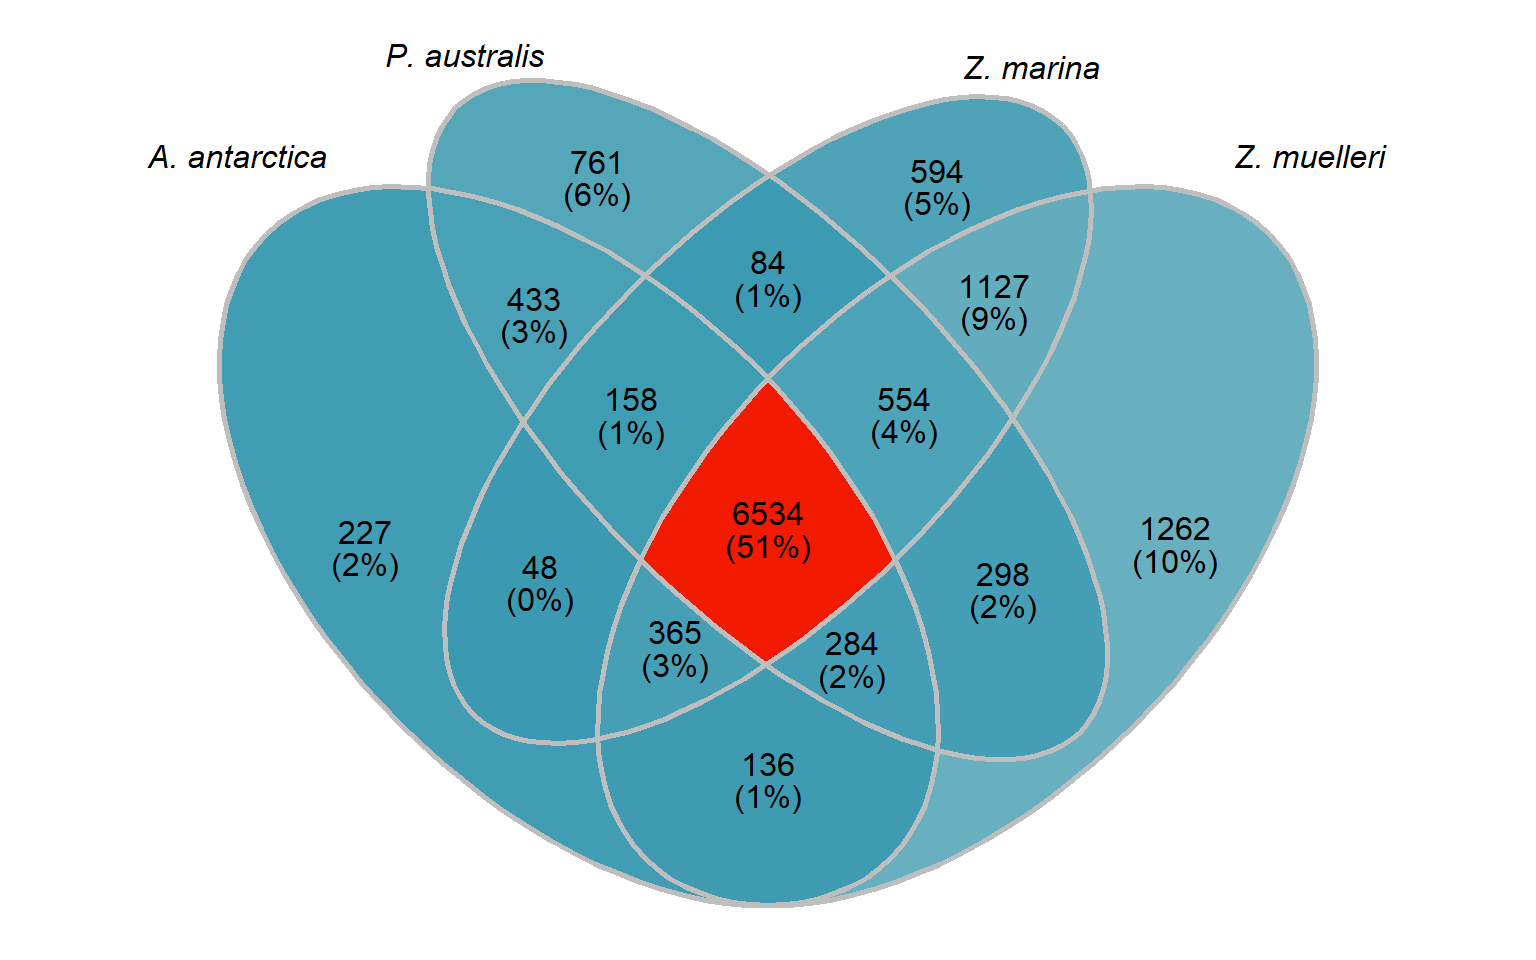
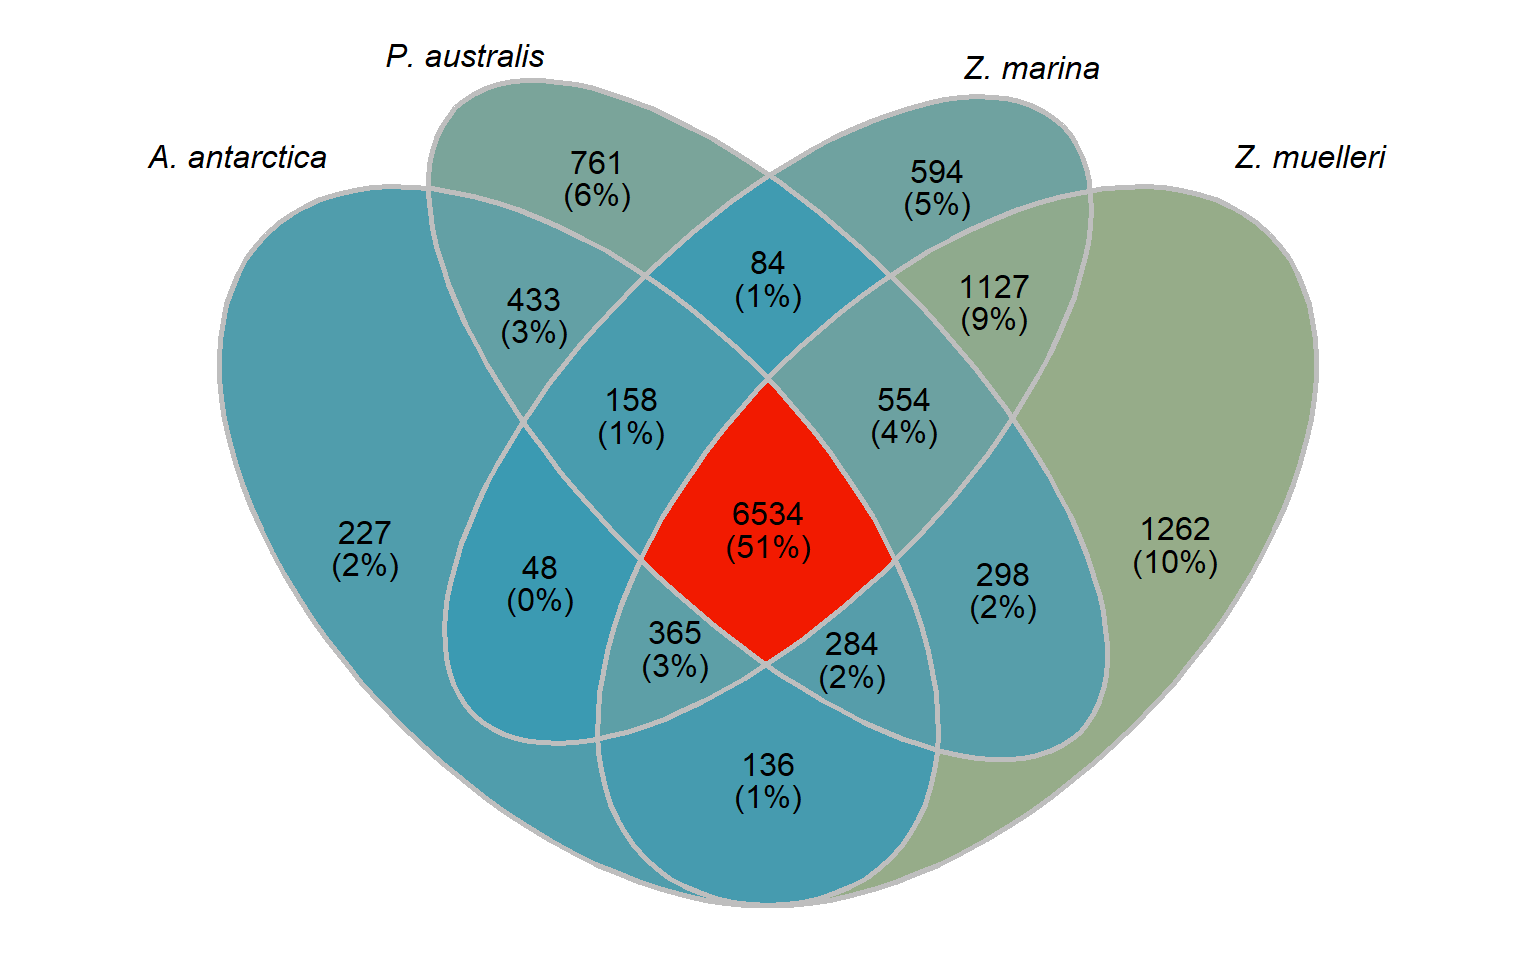
Build site.

Changed region(s): [[0.2812, 0.0625, 0.875, 0.9375]]

diff --git a/docs/Orthofinder.html b/docs/Orthofinder.html
@@ -387,7 +387,7 @@ div.tocify {
 <div class="tab-content">
 <div id="summary" class="tab-pane fade in active">
 <p>
-<strong>Last updated:</strong> 2022-03-08
+<strong>Last updated:</strong> 2022-03-09
 </p>
 <p>
 <strong>Checks:</strong> <span class="glyphicon glyphicon-ok text-success" aria-hidden="true"></span> 7 <span class="glyphicon glyphicon-exclamation-sign text-danger" aria-hidden="true"></span> 0
@@ -478,16 +478,16 @@ This reproducible <a href="http://rmarkdown.rstudio.com">R Markdown</a> analysis
 <div class="panel panel-default">
 <div class="panel-heading">
 <p class="panel-title">
-<a data-toggle="collapse" data-parent="#workflowr-checks" href="#strongRepositoryversionstrongahrefhttpsgithubcomphilippbayerAmphibolisPosidoniaComparisontreee4c19dac30055486109ba7f30fd00c221c85ea9etargetblanke4c19daa"> <span class="glyphicon glyphicon-ok text-success" aria-hidden="true"></span> <strong>Repository version:</strong> <a href="https://github.com/philippbayer/Amphibolis_Posidonia_Comparison/tree/e4c19dac30055486109ba7f30fd00c221c85ea9e" target="_blank">e4c19da</a> </a>
+<a data-toggle="collapse" data-parent="#workflowr-checks" href="#strongRepositoryversionstrongahrefhttpsgithubcomphilippbayerAmphibolisPosidoniaComparisontree45b4b4271cc9a151ac6dd677fb28e4f53ea01170targetblank45b4b42a"> <span class="glyphicon glyphicon-ok text-success" aria-hidden="true"></span> <strong>Repository version:</strong> <a href="https://github.com/philippbayer/Amphibolis_Posidonia_Comparison/tree/45b4b4271cc9a151ac6dd677fb28e4f53ea01170" target="_blank">45b4b42</a> </a>
 </p>
 </div>
[2 lines of base64/hex data omitted]
 <div class="panel-body">
 <p>
 Great! You are using Git for version control. Tracking code development and connecting the code version to the results is critical for reproducibility.
 </p>
 <p>
-The results in this page were generated with repository version <a href="https://github.com/philippbayer/Amphibolis_Posidonia_Comparison/tree/e4c19dac30055486109ba7f30fd00c221c85ea9e" target="_blank">e4c19da</a>. See the <em>Past versions</em> tab to see a history of the changes made to the R Markdown and HTML files.
+The results in this page were generated with repository version <a href="https://github.com/philippbayer/Amphibolis_Posidonia_Comparison/tree/45b4b4271cc9a151ac6dd677fb28e4f53ea01170" target="_blank">45b4b42</a>. See the <em>Past versions</em> tab to see a history of the changes made to the R Markdown and HTML files.
 </p>
 <p>
 Note that you need to be careful to ensure that all relevant files for the analysis have been committed to Git prior to generating the results (you can use <code>wflow_publish</code> or <code>wflow_git_commit</code>). workflowr only checks the R Markdown file, but you know if there are other scripts or data files that it depends on. Below is the status of the Git repository when the results were generated:
@@ -497,10 +497,45 @@ Ignored files:
     Ignored:    .Rhistory
     Ignored:    .Rproj.user/
     Ignored:    analysis/OTT.nb.html
+    Ignored:    analysis/figure/
     Ignored:    analysis/plotRgenes.nb.html
 
+Untracked files:
+    Untracked:  analysis/GO_and_ortho.Rmd
+    Untracked:  output/GO_results_genes_in_Algae_NOT_Duckweeds_NOT_Seagrasses_NOT_Terrestrials.csv
+    Untracked:  output/GO_results_genes_in_Algae_NOT_Duckweeds_NOT_Seagrasses_NOT_Terrestrials.csv.png
+    Untracked:  output/GO_results_genes_in_Aquatics_NOT_Seagrasses_NOT_Terrestrials.csv
+    Untracked:  output/GO_results_genes_in_Aquatics_NOT_Seagrasses_NOT_Terrestrials.csv.png
+    Untracked:  output/GO_results_genes_in_Aquatics_and_Seagrasses_NOT_Terrestrials.csv
+    Untracked:  output/GO_results_genes_in_Aquatics_and_Seagrasses_NOT_Terrestrials.csv.png
+    Untracked:  output/GO_results_genes_in_Duckweeds_NOT_Algae_NOT_Seagrasses_NOT_Terrestrials.csv
+    Untracked:  output/GO_results_genes_in_Duckweeds_NOT_Algae_NOT_Seagrasses_NOT_Terrestrials.csv.png
+    Untracked:  output/GO_results_genes_in_Seagrasses_NOT_Algae_NOT_Duckweeds_NOT_Terrestrials.csv
+    Untracked:  output/GO_results_genes_in_Seagrasses_NOT_Algae_NOT_Duckweeds_NOT_Terrestrials.csv.png
+    Untracked:  output/GO_results_genes_in_Seagrasses_NOT_Aquatics_NOT_Terrestrials.csv
+    Untracked:  output/GO_results_genes_in_Seagrasses_NOT_Aquatics_NOT_Terrestrials.csv.png
+    Untracked:  output/GO_results_genes_in_Terrestrials_NOT_Aquatics_NOT_Seagrasses.csv
+    Untracked:  output/GO_results_genes_in_Terrestrials_NOT_Aquatics_NOT_Seagrasses.csv.png
+    Untracked:  output/GO_results_genes_union_Aquatics_and_Seagrasses_NOT_Terrestrials.csv
+    Untracked:  output/GO_results_genes_union_Aquatics_and_Seagrasses_NOT_Terrestrials.csv.png
+    Untracked:  output/all_GO_plots.Rdata
+    Untracked:  output/patchwork_seagrass_gene_loss.png
+    Untracked:  output/patchwork_terrestrials_gene_loss.png
+
 Unstaged changes:
-    Modified:   output/patched_gene_loss.png
+    Modified:   analysis/GOenrichment.Rmd
+    Modified:   data/arabidopsis_gene_level_comparison.xlsx
+    Modified:   data/arabidopsis_gene_level_comparison_only_losts.xlsx
+    Modified:   data/arabidopsis_gene_level_counts.xlsx
+    Modified:   output/GO_results_genes_lost_A_antarctica_not_other_seagrasses.csv.png
+    Modified:   output/GO_results_genes_lost_P_australis_not_other_seagrasses.csv.png
+    Modified:   output/GO_results_genes_lost_Z_marina_not_other_seagrasses.csv.png
+    Modified:   output/GO_results_genes_lost_Z_muelleri_not_other_seagrasses.csv.png
+    Modified:   output/GO_results_genes_only_P_australis_not_other_seagrasses.csv.png
+    Modified:   output/GO_results_genes_only_Z_marina_not_other_seagrasses.csv.png
+    Modified:   output/GO_results_genes_only_Z_muelleri_not_other_seagrasses.csv.png
+    Modified:   output/GO_results_terrestrials_vs_union_aquatics_seagrasses.png
+    Modified:   output/seagrass_venn_image.Rdata
 
 </code></pre>
 <p>
@@ -539,6 +574,40 @@ Message
 </tr>
 </thead>
 <tbody>
+<tr>
+<td>
+Rmd
+</td>
+<td>
+<a href="https://github.com/philippbayer/Amphibolis_Posidonia_Comparison/blob/45b4b4271cc9a151ac6dd677fb28e4f53ea01170/analysis/Orthofinder.Rmd" target="_blank">45b4b42</a>
+</td>
+<td>
+Philipp Bayer
+</td>
+<td>
+2022-03-09
+</td>
+<td>
+add better groups
+</td>
+</tr>
+<tr>
+<td>
+html
+</td>
+<td>
+<a href="https://rawcdn.githack.com/philippbayer/Amphibolis_Posidonia_Comparison/ce4bc8b19032db1c095861033e7b178bdcd69382/docs/Orthofinder.html" target="_blank">ce4bc8b</a>
+</td>
+<td>
+Philipp Bayer
+</td>
+<td>
+2022-03-08
+</td>
+<td>
+Build site.
+</td>
+</tr>
 <tr>
 <td>
 Rmd
@@ -1543,7 +1612,7 @@ seagrass_venn &lt;- ggplot() +
                              size = NA,
                              lineheight = 0.85,
                              label.size = NA) +
-  scale_fill_gradientn(colours=wes_palette(&quot;Zissou1&quot;, 100, type = &quot;continuous&quot;)) + 
+  scale_fill_gradientn(colours=wes_palette(&quot;Zissou1&quot;, 3, type = &quot;continuous&quot;)) + 
   theme(legend.position = &quot;none&quot;) + 
   scale_x_continuous(expand = expansion(mult = .2)) #trick from https://github.com/gaospecial/ggVennDiagram/blob/9435aa0ab4abb470c670ecb938c71576461ccedc/vignettes/using-ggVennDiagram.Rmd#L65
 seagrass_venn</code></pre>
@@ -1579,24 +1648,33 @@ genes_only_in_Z_muelleri &lt;- gene_per_spec %&gt;%
   filter(name == &#39;Z. muelleri&#39;, Orthogroup %in% groups_only_in_Z_muelleri) %&gt;% 
   separate_rows(value, sep=&#39;,&#39;) %&gt;% pull(value) %&gt;% str_trim()
 
-groups_in_all_seagrasses &lt;- union(union(union(big_list[[&#39;Z. muelleri&#39;]], big_list[[&#39;A. antarctica&#39;]]), big_list[[&#39;P. australis&#39;]]), big_list[[&#39;Z. marina&#39;]])
+groups_in_all_seagrasses_union &lt;- union(union(union(big_list[[&#39;Z. muelleri&#39;]], big_list[[&#39;A. antarctica&#39;]]), big_list[[&#39;P. australis&#39;]]), big_list[[&#39;Z. marina&#39;]])
+genes_in_all_seagrasses_union &lt;- gene_per_spec %&gt;% 
+  filter(name %in% c(&#39;A. antarctica&#39;, &#39;P. australis&#39;, &#39;Z. muelleri&#39;, &#39;Z. marina&#39;), Orthogroup %in% groups_in_all_seagrasses_union) %&gt;% 
+  separate_rows(value, sep=&#39;,&#39;) %&gt;% pull(value) %&gt;% str_trim()
 
-groups_lost_in_A_antarctica &lt;- setdiff(groups_in_all_seagrasses, big_list[[&#39;A. antarctica&#39;]])
+groups_in_all_seagrasses_intersect &lt;- intersect(intersect(intersect(big_list[[&#39;Z. muelleri&#39;]], big_list[[&#39;A. antarctica&#39;]]), big_list[[&#39;P. australis&#39;]]), big_list[[&#39;Z. marina&#39;]])
+genes_in_all_seagrasses_intersect &lt;- gene_per_spec %&gt;% 
+  filter(name %in% c(&#39;A. antarctica&#39;, &#39;P. australis&#39;, &#39;Z. muelleri&#39;, &#39;Z. marina&#39;), Orthogroup %in% groups_in_all_seagrasses_intersect) %&gt;% 
+  separate_rows(value, sep=&#39;,&#39;) %&gt;% pull(value) %&gt;% str_trim()
+
+
+groups_lost_in_A_antarctica &lt;- setdiff(groups_in_all_seagrasses_union, big_list[[&#39;A. antarctica&#39;]])
 genes_lost_in_A_antarctica &lt;- gene_per_spec %&gt;% 
   filter(name != &#39;A. antarctica&#39;, Orthogroup %in% groups_lost_in_A_antarctica) %&gt;% 
   separate_rows(value, sep=&#39;,&#39;) %&gt;% pull(value) %&gt;% str_trim()
 
-groups_lost_in_P_australis &lt;- setdiff(groups_in_all_seagrasses, big_list[[&#39;P. australis&#39;]])
+groups_lost_in_P_australis &lt;- setdiff(groups_in_all_seagrasses_union, big_list[[&#39;P. australis&#39;]])
 genes_lost_in_P_australis &lt;- gene_per_spec %&gt;% 
   filter(name != &#39;P. australis&#39;, Orthogroup %in% groups_lost_in_P_australis) %&gt;% 
   separate_rows(value, sep=&#39;,&#39;) %&gt;% pull(value) %&gt;% str_trim()
 
-groups_lost_in_Z_marina &lt;- setdiff(groups_in_all_seagrasses, big_list[[&#39;Z. marina&#39;]])
+groups_lost_in_Z_marina &lt;- setdiff(groups_in_all_seagrasses_union, big_list[[&#39;Z. marina&#39;]])
 genes_lost_in_Z_marina &lt;- gene_per_spec %&gt;% 
   filter(name != &#39;Z. marina&#39;, Orthogroup %in% groups_lost_in_Z_marina) %&gt;% 
   separate_rows(value, sep=&#39;,&#39;) %&gt;% pull(value) %&gt;% str_trim()
 
-groups_lost_in_Z_muelleri &lt;- setdiff(groups_in_all_seagrasses, big_list[[&#39;Z. muelleri&#39;]])
+groups_lost_in_Z_muelleri &lt;- setdiff(groups_in_all_seagrasses_union, big_list[[&#39;Z. muelleri&#39;]])
 genes_lost_in_Z_muelleri &lt;- gene_per_spec %&gt;% 
   filter(name != &#39;Z. muelleri&#39;, Orthogroup %in% groups_lost_in_Z_muelleri) %&gt;% 
   separate_rows(value, sep=&#39;,&#39;) %&gt;% pull(value) %&gt;% str_trim()</code></pre>
@@ -1607,6 +1685,14 @@ close(fileConn)
 
 fileConn&lt;-file(&#39;data/Lost_present_gene_lists/Genes_only_in_P_australis_not_other_seagrasses.txt&#39;)
 writeLines(genes_only_in_P_australis, fileConn)
+close(fileConn)
+
+fileConn &lt;- file(&#39;data/Lost_present_gene_lists/Genes_in_all_seagrasses_union.txt&#39;)
+writeLines(genes_in_all_seagrasses_union, fileConn)
+close(fileConn)
+
+fileConn &lt;- file(&#39;data/Lost_present_gene_lists/Genes_in_all_seagrasses_intersect.txt&#39;)
+writeLines(genes_in_all_seagrasses_intersect, fileConn)
 close(fileConn)
 
 fileConn&lt;-file(&#39;data/Lost_present_gene_lists/Genes_only_in_Z_marina_not_other_seagrasses.txt&#39;)

diff --git a/docs/index.html b/docs/index.html
@@ -305,7 +305,7 @@ $(document).ready(function () {
 <div class="tab-content">
 <div id="summary" class="tab-pane fade in active">
 <p>
-<strong>Last updated:</strong> 2022-02-23
+<strong>Last updated:</strong> 2022-03-09
 </p>
 <p>
 <strong>Checks:</strong> <span class="glyphicon glyphicon-ok text-success" aria-hidden="true"></span> 2 <span class="glyphicon glyphicon-exclamation-sign text-danger" aria-hidden="true"></span> 0
@@ -336,16 +336,16 @@ This reproducible <a href="http://rmarkdown.rstudio.com">R Markdown</a> analysis
 <div class="panel panel-default">
 <div class="panel-heading">
 <p class="panel-title">
-<a data-toggle="collapse" data-parent="#workflowr-checks" href="#strongRepositoryversionstrongahrefhttpsgithubcomphilippbayerAmphibolisPosidoniaComparisontree9b5946749e9a370a7bd1d185df8df76ba424af1ftargetblank9b59467a"> <span class="glyphicon glyphicon-ok text-success" aria-hidden="true"></span> <strong>Repository version:</strong> <a href="https://github.com/philippbayer/Amphibolis_Posidonia_Comparison/tree/9b5946749e9a370a7bd1d185df8df76ba424af1f" target="_blank">9b59467</a> </a>
+<a data-toggle="collapse" data-parent="#workflowr-checks" href="#strongRepositoryversionstrongahrefhttpsgithubcomphilippbayerAmphibolisPosidoniaComparisontree45b4b4271cc9a151ac6dd677fb28e4f53ea01170targetblank45b4b42a"> <span class="glyphicon glyphicon-ok text-success" aria-hidden="true"></span> <strong>Repository version:</strong> <a href="https://github.com/philippbayer/Amphibolis_Posidonia_Comparison/tree/45b4b4271cc9a151ac6dd677fb28e4f53ea01170" target="_blank">45b4b42</a> </a>
 </p>
 </div>
[2 lines of base64/hex data omitted]
 <div class="panel-body">
 <p>
 Great! You are using Git for version control. Tracking code development and connecting the code version to the results is critical for reproducibility.
 </p>
 <p>
-The results in this page were generated with repository version <a href="https://github.com/philippbayer/Amphibolis_Posidonia_Comparison/tree/9b5946749e9a370a7bd1d185df8df76ba424af1f" target="_blank">9b59467</a>. See the <em>Past versions</em> tab to see a history of the changes made to the R Markdown and HTML files.
+The results in this page were generated with repository version <a href="https://github.com/philippbayer/Amphibolis_Posidonia_Comparison/tree/45b4b4271cc9a151ac6dd677fb28e4f53ea01170" target="_blank">45b4b42</a>. See the <em>Past versions</em> tab to see a history of the changes made to the R Markdown and HTML files.
 </p>
 <p>
 Note that you need to be careful to ensure that all relevant files for the analysis have been committed to Git prior to generating the results (you can use <code>wflow_publish</code> or <code>wflow_git_commit</code>). workflowr only checks the R Markdown file, but you know if there are other scripts or data files that it depends on. Below is the status of the Git repository when the results were generated:
@@ -356,6 +356,45 @@ Ignored files:
     Ignored:    .Rproj.user/
     Ignored:    analysis/OTT.nb.html
     Ignored:    analysis/plotRgenes.nb.html
+
+Untracked files:
+    Untracked:  analysis/GO_and_ortho.Rmd
+    Untracked:  data/Lost_present_gene_lists/Genes_in_all_seagrasses_intersect.txt
+    Untracked:  data/Lost_present_gene_lists/Genes_in_all_seagrasses_union.txt
+    Untracked:  output/GO_results_genes_in_Algae_NOT_Duckweeds_NOT_Seagrasses_NOT_Terrestrials.csv
+    Untracked:  output/GO_results_genes_in_Algae_NOT_Duckweeds_NOT_Seagrasses_NOT_Terrestrials.csv.png
+    Untracked:  output/GO_results_genes_in_Aquatics_NOT_Seagrasses_NOT_Terrestrials.csv
+    Untracked:  output/GO_results_genes_in_Aquatics_NOT_Seagrasses_NOT_Terrestrials.csv.png
+    Untracked:  output/GO_results_genes_in_Aquatics_and_Seagrasses_NOT_Terrestrials.csv
+    Untracked:  output/GO_results_genes_in_Aquatics_and_Seagrasses_NOT_Terrestrials.csv.png
+    Untracked:  output/GO_results_genes_in_Duckweeds_NOT_Algae_NOT_Seagrasses_NOT_Terrestrials.csv
+    Untracked:  output/GO_results_genes_in_Duckweeds_NOT_Algae_NOT_Seagrasses_NOT_Terrestrials.csv.png
+    Untracked:  output/GO_results_genes_in_Seagrasses_NOT_Algae_NOT_Duckweeds_NOT_Terrestrials.csv
+    Untracked:  output/GO_results_genes_in_Seagrasses_NOT_Algae_NOT_Duckweeds_NOT_Terrestrials.csv.png
+    Untracked:  output/GO_results_genes_in_Seagrasses_NOT_Aquatics_NOT_Terrestrials.csv
+    Untracked:  output/GO_results_genes_in_Seagrasses_NOT_Aquatics_NOT_Terrestrials.csv.png
+    Untracked:  output/GO_results_genes_in_Terrestrials_NOT_Aquatics_NOT_Seagrasses.csv
+    Untracked:  output/GO_results_genes_in_Terrestrials_NOT_Aquatics_NOT_Seagrasses.csv.png
+    Untracked:  output/GO_results_genes_union_Aquatics_and_Seagrasses_NOT_Terrestrials.csv
+    Untracked:  output/GO_results_genes_union_Aquatics_and_Seagrasses_NOT_Terrestrials.csv.png
+    Untracked:  output/all_GO_plots.Rdata
+    Untracked:  output/patchwork_seagrass_gene_loss.png
+    Untracked:  output/patchwork_terrestrials_gene_loss.png
+
+Unstaged changes:
+    Modified:   analysis/GOenrichment.Rmd
+    Modified:   data/arabidopsis_gene_level_comparison.xlsx
+    Modified:   data/arabidopsis_gene_level_comparison_only_losts.xlsx
+    Modified:   data/arabidopsis_gene_level_counts.xlsx
+    Modified:   output/GO_results_genes_lost_A_antarctica_not_other_seagrasses.csv.png
+    Modified:   output/GO_results_genes_lost_P_australis_not_other_seagrasses.csv.png
+    Modified:   output/GO_results_genes_lost_Z_marina_not_other_seagrasses.csv.png
+    Modified:   output/GO_results_genes_lost_Z_muelleri_not_other_seagrasses.csv.png
+    Modified:   output/GO_results_genes_only_P_australis_not_other_seagrasses.csv.png
+    Modified:   output/GO_results_genes_only_Z_marina_not_other_seagrasses.csv.png
+    Modified:   output/GO_results_genes_only_Z_muelleri_not_other_seagrasses.csv.png
+    Modified:   output/GO_results_terrestrials_vs_union_aquatics_seagrasses.png
+    Modified:   output/seagrass_venn_image.Rdata
 
 </code></pre>
 <p>
@@ -394,6 +433,57 @@ Message
 </tr>
 </thead>
 <tbody>
+<tr>
+<td>
+Rmd
+</td>
+<td>
+<a href="https://github.com/philippbayer/Amphibolis_Posidonia_Comparison/blob/45b4b4271cc9a151ac6dd677fb28e4f53ea01170/analysis/index.Rmd" target="_blank">45b4b42</a>
+</td>
+<td>
+Philipp Bayer
+</td>
+<td>
+2022-03-09
+</td>
+<td>
+add better groups
+</td>
+</tr>
+<tr>
+<td>
+html
+</td>
+<td>
+<a href="https://rawcdn.githack.com/philippbayer/Amphibolis_Posidonia_Comparison/2243fa6f83122faa64f19637843dc53e8297085b/docs/index.html" target="_blank">2243fa6</a>
+</td>
+<td>
+Philipp Bayer
+</td>
+<td>
+2022-02-23
+</td>
+<td>
+muh files
+</td>
+</tr>
+<tr>
+<td>
+html
+</td>
+<td>
+<a href="https://rawcdn.githack.com/philippbayer/Amphibolis_Posidonia_Comparison/1a19f93c6cc6e16710da94489015d41577864bff/docs/index.html" target="_blank">1a19f93</a>
+</td>
+<td>
+Philipp Bayer
+</td>
+<td>
+2022-02-23
+</td>
+<td>
+Build site.
+</td>
+</tr>
 <tr>
 <td>
 html
@@ -606,12 +696,13 @@ Start workflowr project.
 </div>
 </div>
 <p>This website collects comparisons of <em>Amphibolis</em> and <em>Posidonia</em> comparative analyses.</p>
-<p><a href="plot.html">Repeat comparison plots</a></p>
-<p><a href="OTT.html">Phylogenies</a></p>
-<p><a href="Orthofinder.html">Clustering results</a></p>
-<p><a href="plotRgenes.html">R gene plotting</a></p>
-<p><a href="GeneLossComparisonReads.html">Gene Loss comparison by reads</a></p>
-<p><a href="GOenrichment.html">GO enrichment</a></p>
+<p><a href="plot.html">Repeat comparison plots</a> - Comparing genome sizes and repeat/TE content</p>
+<p><a href="OTT.html">Phylogenies</a> - plotting just phylogenies</p>
+<p><a href="Orthofinder.html">Clustering results</a> - analysing Orthofinder clustering results</p>
+<p><a href="plotRgenes.html">R gene plotting</a> - making phylogenies and showing R-gene number differences</p>
+<p><a href="GeneLossComparisonReads.html">Gene Loss comparison by reads</a> - making heatmaps and barcharts to compare read alignments</p>
+<p><a href="GOenrichment.html">GO enrichment</a> - running topGO and REVIGO to make nice plots of GO-enrichment</p>
+<p><a href="GO_and_ortho.html">GO and Ortho</a> - merging plots from GO enrichment and Orthofinder analysis</p>
 
 
 <!-- Adjust MathJax settings so that all math formulae are shown using
